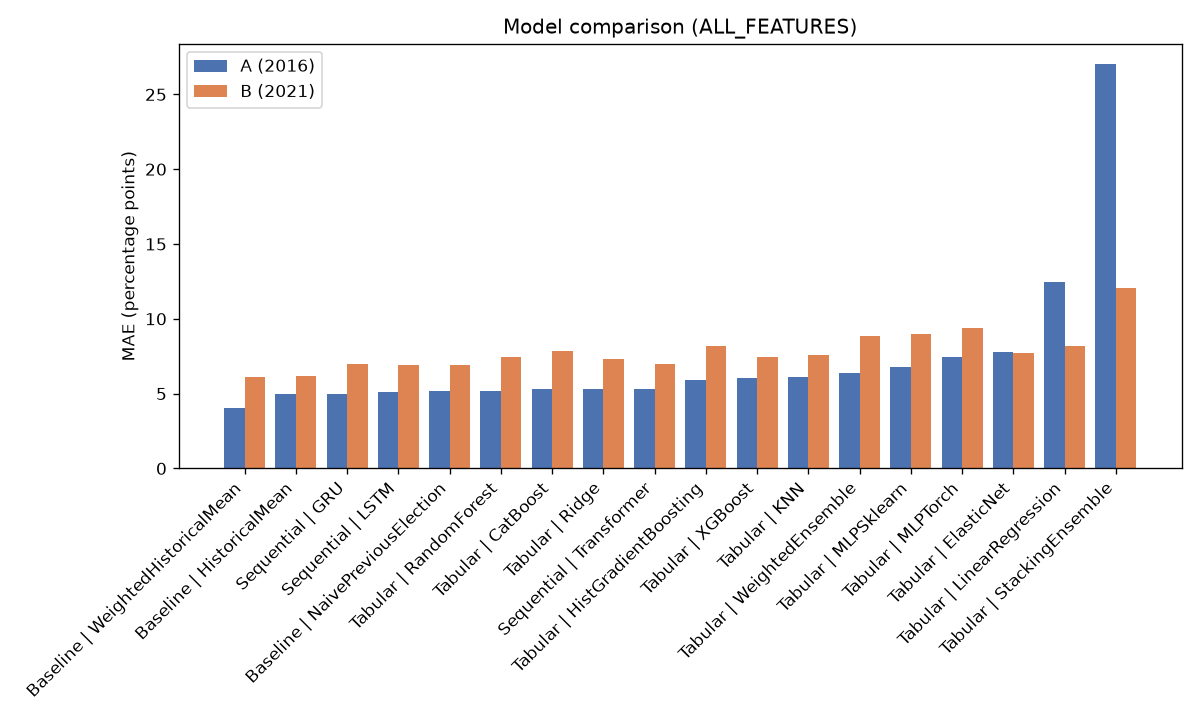
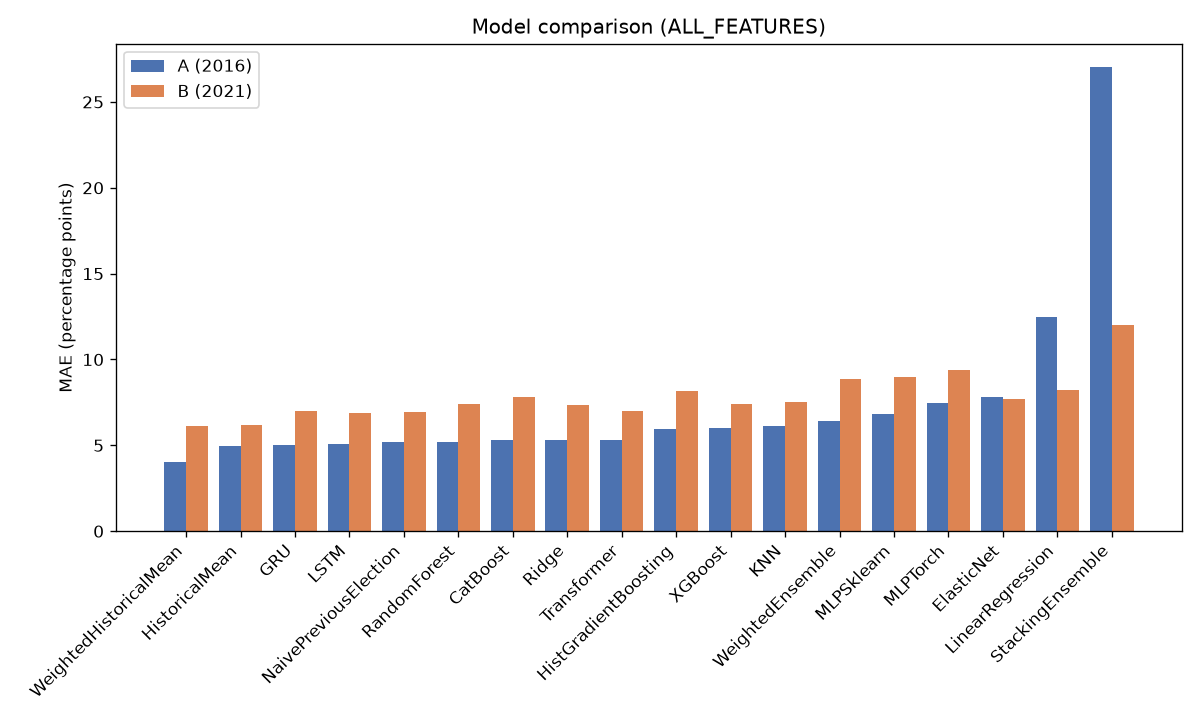
docs: fix misleading figure captions, strip league prefix in model_comparison plot
Рис.2 caption claimed ROSSTAT helps on A, but the figure (and Q2 text) show
ROSSTAT_ONLY alone is the worst group for every model (LinearRegression is the
only case where ALL is worse than single groups). Рис.3 caption claimed long
history helps and LSTM is unstable — the figure shows a single point per model
on A (depth2 only, depth1=NaN for temporal models) and ~flat lines on B
(0.1-0.3 pp gain), and LSTM is now the most stable. Fixed captions to match
data; plot_model_comparison now drops the 'Baseline|Tabular|Sequential |'
league prefix from x labels.

diff --git a/scripts/visualization/generate_report.py b/scripts/visualization/generate_report.py
@@ -30,6 +30,7 @@ def plot_model_comparison(bench: pd.DataFrame) -> None:
     """Bar chart of MAE by model (ALL_FEATURES), experiments A and B."""
     df = bench[bench["Model"].str.endswith("(ALL_FEATURES)")].copy()
     df["model"] = df["Model"].str.replace(" (ALL_FEATURES)", "", regex=False)
+    df["model"] = df["model"].str.replace(r"^(Baseline|Tabular|Sequential) \| ", "", regex=True)
     df = df.dropna(subset=["A_year_2016", "B_year_2021"])
     df = df.sort_values("A_year_2016")
 

diff --git a/README.md b/README.md
@@ -281,11 +281,11 @@ $$\text{MAE} = \frac{1}{n}\sum_{i=1}^{n} \left| y_i^{\text{true}} - y_i^{\text{p
 
 ![Абляция по фич-группам (вопрос 2, эксп. A)](reports/figures/feature_ablation.png)
 
-*Рис. 2. MAE в зависимости от группы признаков. ROSSTAT помогает на короткой истории (A), но нейтрален/мешает на длинной (B).*
+*Рис. 2. MAE по фич-группам (эксперимент A, вопрос 2). Электоральные признаки сами по себе сильнее Росстата: ROSSTAT_ONLY в одиночку — почти всегда худшая группа, а добавление Росстата к электоральным почти не помогает. Исключение — LinearRegression: ALL (12.5) заметно хуже ELECTORAL (9.3) и ROSSTAT (9.2).*
 
 ![Абляция по глубине истории (вопрос 3, A и B)](reports/figures/history_depth.png)
 
-*Рис. 3. MAE временных моделей в зависимости от глубины истории. Длинная история улучшает Transformer и GRU; LSTM нестабилен.*
+*Рис. 3. MAE временных моделей в зависимости от глубины истории (вопрос 3). На A доступна только глубина 2 (единственная точка на модель: временные модели требуют минимум 2 года контекста, depth1 = NaN). На B добавление третьего года почти не помогает (≈0.1–0.3 п.п.), а раньше все три были лучше: GRU 6.98, LSTM 6.90, Transformer 6.97 на глубине 3.*
 
 Остальные графики из плана (actual vs predicted, ошибка по годам, важность признаков, SHAP, карта регионов) пока не реализованы.
 
